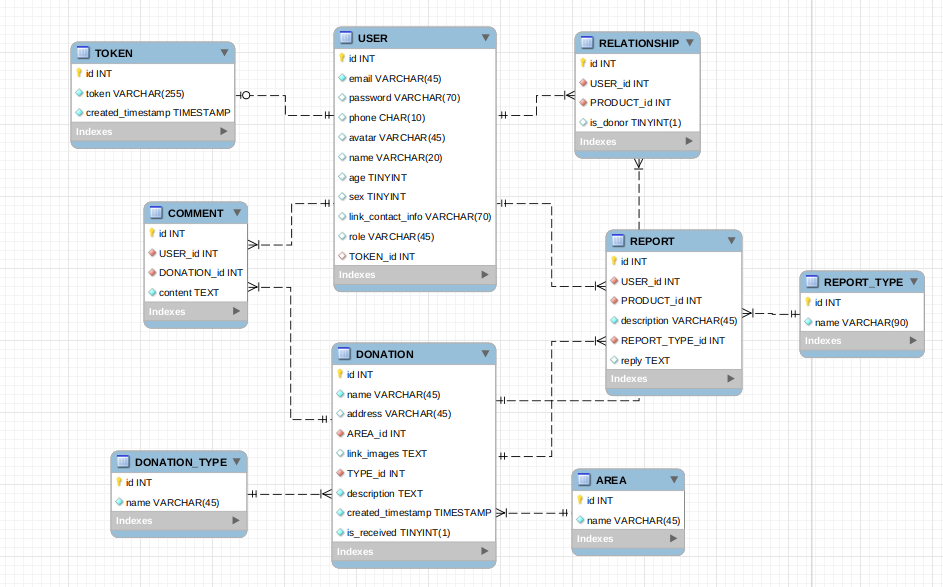
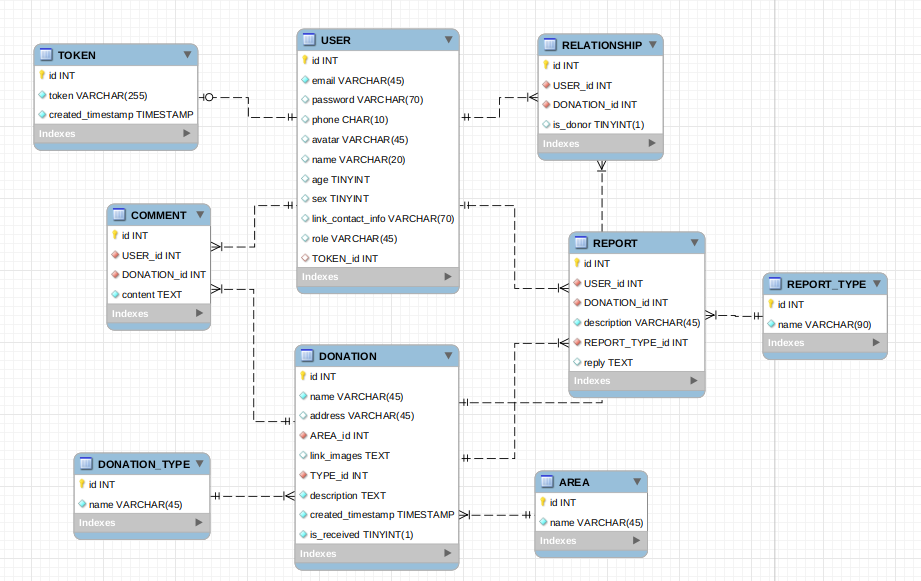
update DB and add upload file service

Changed region(s): [[0.0608, 0.3718, 1.0, 0.9914], [0.0304, 0.031, 0.76, 0.5886], [0.4864, 0.7745, 0.5776, 0.8055]]

diff --git a/src/main/java/fpt/se1601/giveandget/controller/MemberController.java b/src/main/java/fpt/se1601/giveandget/controller/MemberController.java
@@ -9,8 +9,6 @@ import fpt.se1601.giveandget.service.UserService;
 import org.springframework.beans.factory.annotation.Autowired;
 import org.springframework.web.bind.annotation.*;
 
-import java.util.List;
-
 @RestController
 public class MemberController {
     @Autowired
@@ -24,22 +22,31 @@ public class MemberController {
         DonationEntity donationEntity = donationService.addDonation(donationRequest);
         if (donationEntity == null)
             return "Add donation failed";
-        if (donationService.addRelationship(userService.findUserIdByToken(token), donationEntity.getId(),(short)1) == null)
+        if (donationService.addRelationship(userService.findUserIdByToken(token), donationEntity.getId(), (short) 1) == null)
             return "Add relationship failed but add donation successfully";
         return "Add donation successfully";
     }
 
     @PutMapping(value = "/donation")
-    public String updateDonation(@RequestBody DonationRequest donationRequest) {
-        if (donationService.updateDonation(donationRequest) != null)
-            return "Update donation success";
-        else
+    public String updateDonation(@RequestHeader("Authorization") String token, @RequestBody DonationRequest donationRequest) {
+        try {
+            if(!userService.isDonationOfUser(userService.findUserIdByToken(token),donationRequest.getId()))
+                return "It is not your donation";
+            if (donationService.updateDonation(donationRequest) != null)
+                return "Update donation success";
+            else
+                return "Update donation failed";
+        } catch (Exception e) {
+            e.printStackTrace();
             return "Update donation failed";
+        }
     }
 
     @DeleteMapping(value = "/donation")
-    public String deleteDonation(@RequestBody int id) {
+    public String deleteDonation(@RequestHeader("Authorization") String token,@RequestBody int id) {
         try {
+            if(!userService.isDonationOfUser(userService.findUserIdByToken(token),id))
+                return "It is not your donation";
             if (donationService.deleteDonation(id) != null)
                 return "Update donation success";
             return "Update donation failed";
@@ -48,12 +55,24 @@ public class MemberController {
             return "Update donation failed";
         }
     }
-    @PutMapping
-    public UserEntity updateUserInfo(UserInfoRequest userInfoRequest){
-        try{
-            return userService.updateUserInfo(userInfoRequest);
+
+    @GetMapping(value = "/user")
+    public UserEntity getUserInfo(@RequestHeader("Authorization") String token) {
+        try {
+            return userService.getUserByToken(token);
+        } catch (Exception e) {
+            e.printStackTrace();
+            return null;
         }
-        catch (Exception e){
+    }
+
+    @PutMapping(value = "/user")
+    public UserEntity updateUserInfo(@RequestHeader("Authorization") String token, @RequestBody UserInfoRequest userInfoRequest) {
+        try {
+            if(userService.findUserIdByToken(token) == userInfoRequest.getId())
+            return userService.updateUserInfo(userInfoRequest);
+            return null;
+        } catch (Exception e) {
             e.printStackTrace();
             return null;
         }

diff --git a/src/main/java/fpt/se1601/giveandget/service/UserService.java b/src/main/java/fpt/se1601/giveandget/service/UserService.java
@@ -105,16 +105,15 @@ public class UserService {
 
     public String retrievePassword(String email, String token) {
         try {
-        sendTokenToEmail(email);
-        UserEntity temporaryUserEntity = userRepository.findOneByEmail(email);
-        if (temporaryUserEntity.getPassword() == null)
-            return "Email have not been register";
-        String sentToken = temporaryUserEntity.getTokenEntity().getToken();
-        if (!sentToken.equals(token))
-            return "Wrong token, please check or send another token ";
-        return "Password: " + temporaryUserEntity.getPassword();}
-        catch (Exception e)
-        {
+            sendTokenToEmail(email);
+            UserEntity temporaryUserEntity = userRepository.findOneByEmail(email);
+            if (temporaryUserEntity.getPassword() == null)
+                return "Email have not been register";
+            String sentToken = temporaryUserEntity.getTokenEntity().getToken();
+            if (!sentToken.equals(token))
+                return "Wrong token, please check or send another token ";
+            return "Password: " + temporaryUserEntity.getPassword();
+        } catch (Exception e) {
             e.printStackTrace();
             return "Email have not been register";
         }
@@ -151,6 +150,36 @@ public class UserService {
         } catch (Exception e) {
             e.printStackTrace();
             return null;
+        }
+    }
+
+    public String deleteUser(int userId) {
+        try {
+            userRepository.deleteById(userId);
+            return "Delete user successfully";
+        } catch (Exception e) {
+            return "Delete user failed";
+        }
+    }
+
+    public UserEntity getUserByToken(String token) {
+        try {
+            return userRepository.findByTokenId(tokenRepository.findTokenId(token));
+        } catch (Exception e) {
+            e.printStackTrace();
+            return null;
+        }
+    }
+
+    public boolean isDonationOfUser(int userId, int donationId) {
+        try {
+            if (relationshipRepository.existsRelationship(userId, donationId, (short)1) == 0)
+                return true;
+            else
+                return false;
+        } catch (Exception e) {
+            e.printStackTrace();
+            return false;
         }
     }
 

diff --git a/src/main/java/fpt/se1601/giveandget/service/FileStorageService.java b/src/main/java/fpt/se1601/giveandget/service/FileStorageService.java
@@ -1,0 +1,61 @@
+package fpt.se1601.giveandget.service;
+
+import org.springframework.core.io.Resource;
+import org.springframework.core.io.UrlResource;
+import org.springframework.stereotype.Service;
+import org.springframework.util.FileSystemUtils;
+import org.springframework.web.multipart.MultipartFile;
+
+import java.io.IOException;
+import java.net.MalformedURLException;
+import java.nio.file.Files;
+import java.nio.file.Path;
+import java.nio.file.Paths;
+import java.util.stream.Stream;
+@Service
+public class FileStorageService {
+    private static final Path root = Paths.get(System.getProperty("user.dir") + "/upload");
+
+    public static void init() {
+        try {
+            Files.createDirectory(root);
+        } catch (IOException e) {
+            throw new RuntimeException("Could not initialize folder for upload!");
+        }
+    }
+
+    public void save(MultipartFile file, String fileName) {
+        try {
+            Files.copy(file.getInputStream(), root.resolve(fileName));
+        } catch (Exception e) {
+            throw new RuntimeException("Could not store the file. Error: " + e.getMessage());
+        }
+    }
+
+    public Resource load(String filename) {
+        try {
+            Path file = root.resolve(filename);
+            Resource resource = new UrlResource(file.toUri());
+
+            if (resource.exists() || resource.isReadable()) {
+                return resource;
+            } else {
+                throw new RuntimeException("Could not read the file!");
+            }
+        } catch (MalformedURLException e) {
+            throw new RuntimeException("Error: " + e.getMessage());
+        }
+    }
+
+    public static void deleteAll() {
+        FileSystemUtils.deleteRecursively(root.toFile());
+    }
+
+    public Stream<Path> loadAll() {
+        try {
+            return Files.walk(root, 1).filter(path -> !path.equals(root)).map(root::relativize);
+        } catch (IOException e) {
+            throw new RuntimeException("Could not load the files!");
+        }
+    }
+}

diff --git a/src/main/java/fpt/se1601/giveandget/interceptor/GatewayConstant.java b/src/main/java/fpt/se1601/giveandget/interceptor/GatewayConstant.java
@@ -6,19 +6,7 @@ import java.util.List;
 
 public class GatewayConstant {
     public static  List<ApiEntity> apiEntities = new ArrayList<>();
-    public static final String CORRELATION_ID_HEADER = "correlation_id";
     public static final String AUTHORIZATION_HEADER = "Authorization";
-    public static final String CLIENT_ID_HEADER = "client_id";
-    public static final String CLIENT_SECRET_HEADER = "client_secret";
-    public static final String X_IP_ADDRESS_HEADER = "X-IP-ADDRESS";
-    public static final String START_PROCESSING_TIME = "start_processing";
-    public static final String CLIENT_DETAIL = "client_detail";
-    public static final String REQUESTED_SCOPE_DELIMITER = " ";
-    public static final String ACCESS_TOKEN = "access_token";
-    public static final String API = "api";
-    public static final String PLAYER_ID = "player_id";
-    public static final String ACCEPT_LANGUAGE = "Accept-Language";
-    public static final String APP_VERSION = "app_version";
     public static void addApiEntities(){
         apiEntities.add(new ApiEntity("index","/index","GET","MEMBER"));
     }

diff --git a/src/main/java/fpt/se1601/giveandget/GiveAndGetApplication.java b/src/main/java/fpt/se1601/giveandget/GiveAndGetApplication.java
@@ -1,15 +1,25 @@
 package fpt.se1601.giveandget;
 
 import fpt.se1601.giveandget.interceptor.GatewayConstant;
+import fpt.se1601.giveandget.service.FileStorageService;
+import org.springframework.beans.factory.annotation.Autowired;
 import org.springframework.boot.SpringApplication;
 import org.springframework.boot.autoconfigure.SpringBootApplication;
 import org.springframework.boot.autoconfigure.security.servlet.SecurityAutoConfiguration;
 
+import javax.annotation.Resource;
+
 
 @SpringBootApplication(exclude = { SecurityAutoConfiguration.class })
 public class GiveAndGetApplication {
+
+
     public static void main(String[] args) {
         GatewayConstant.addApiEntities();
+        FileStorageService.deleteAll();
+        FileStorageService.init();
         SpringApplication.run(GiveAndGetApplication.class, args);
     }
+
+
 }

diff --git a/src/main/java/fpt/se1601/giveandget/reponsitory/UserRepository.java b/src/main/java/fpt/se1601/giveandget/reponsitory/UserRepository.java
@@ -10,15 +10,21 @@ import java.util.List;
 @Repository
 public interface UserRepository extends JpaRepository<UserEntity, Integer> {
     List<UserEntity> findByRole(String Role);
+
     UserEntity findOneById(int id);
+
     UserEntity findOneByEmail(String email);
+    @Query(nativeQuery = true, value = "SELECT * FROM USER WHERE `TOKEN_id` = ?1")
+    UserEntity findByTokenId(int tokenId);
 
     @Query(nativeQuery = true, value = "SELECT `TOKEN_id` FROM USER WHERE email = ?1")
     int findTokenIdByEmail(String email);
 
     @Query(nativeQuery = true, value = "SELECT `role` FROM USER WHERE `TOKEN_id` = ?1")
     String findRoleByTokenId(int tokenId);
+
     @Query(nativeQuery = true, value = "SELECT `id` FROM USER WHERE `TOKEN_id` = ?1")
     int findUserIdByTokenId(int tokenId);
+
     boolean existsByEmail(String email);
 }

diff --git a/src/main/java/fpt/se1601/giveandget/reponsitory/RelationshipRepository.java b/src/main/java/fpt/se1601/giveandget/reponsitory/RelationshipRepository.java
@@ -3,10 +3,13 @@ package fpt.se1601.giveandget.reponsitory;
 import fpt.se1601.giveandget.reponsitory.entity.RelationshipEntity;
 import fpt.se1601.giveandget.reponsitory.entity.UserEntity;
 import org.springframework.data.jpa.repository.JpaRepository;
+import org.springframework.data.jpa.repository.Query;
 
 import java.util.List;
 
 
 public interface RelationshipRepository extends JpaRepository<RelationshipEntity,Integer> {
     List<RelationshipEntity> findByUser(UserEntity user);
+    @Query(nativeQuery = true, value = "SELECT EXISTS(SELECT 1 FROM RELATIONSHIP WHERE `USER_id`=?1 AND `DONATION_id`=?2 AND `is_donor`=?3 LIMIT 1)")
+    short existsRelationship(int userId,int donationId, short isDonor);
 }

diff --git a/src/main/java/fpt/se1601/giveandget/service/TokenService.java b/src/main/java/fpt/se1601/giveandget/service/TokenService.java
@@ -14,16 +14,6 @@ public class TokenService {
     TokenRepository tokenRepository;
     @Autowired
     UserRepository userRepository;
-
-    public TokenEntity findTokenByEmail(String email) {
-        try {
-            return tokenRepository.findOneById(userRepository.findTokenIdByEmail(email));
-        } catch (Exception e) {
-            e.printStackTrace();
-            return null;
-        }
-    }
-
     public String addTokenForUserHasEmail(String userEmail) {
         try {
             int tokenId = userRepository.findTokenIdByEmail(userEmail);

diff --git a/src/main/java/fpt/se1601/giveandget/controller/AdminController.java b/src/main/java/fpt/se1601/giveandget/controller/AdminController.java
@@ -78,4 +78,14 @@ public class AdminController {
             return null;
         }
     }
+    @DeleteMapping(value = "/user")
+    public String deleteUser(@RequestBody int userId)
+    {
+        try{
+            return userService.deleteUser(userId);
+        }catch (Exception e){
+            e.printStackTrace();
+            return "Delete user failed";
+        }
+    }
 }

diff --git a/src/main/java/fpt/se1601/giveandget/controller/TestController.java b/src/main/java/fpt/se1601/giveandget/controller/TestController.java
@@ -1,0 +1,12 @@
+package fpt.se1601.giveandget.controller;
+
+import fpt.se1601.giveandget.service.FileStorageService;
+import org.springframework.beans.factory.annotation.Autowired;
+import org.springframework.stereotype.Controller;
+
+@Controller
+public class TestController {
+    @Autowired
+    FileStorageService fileStorageService;
+
+}
